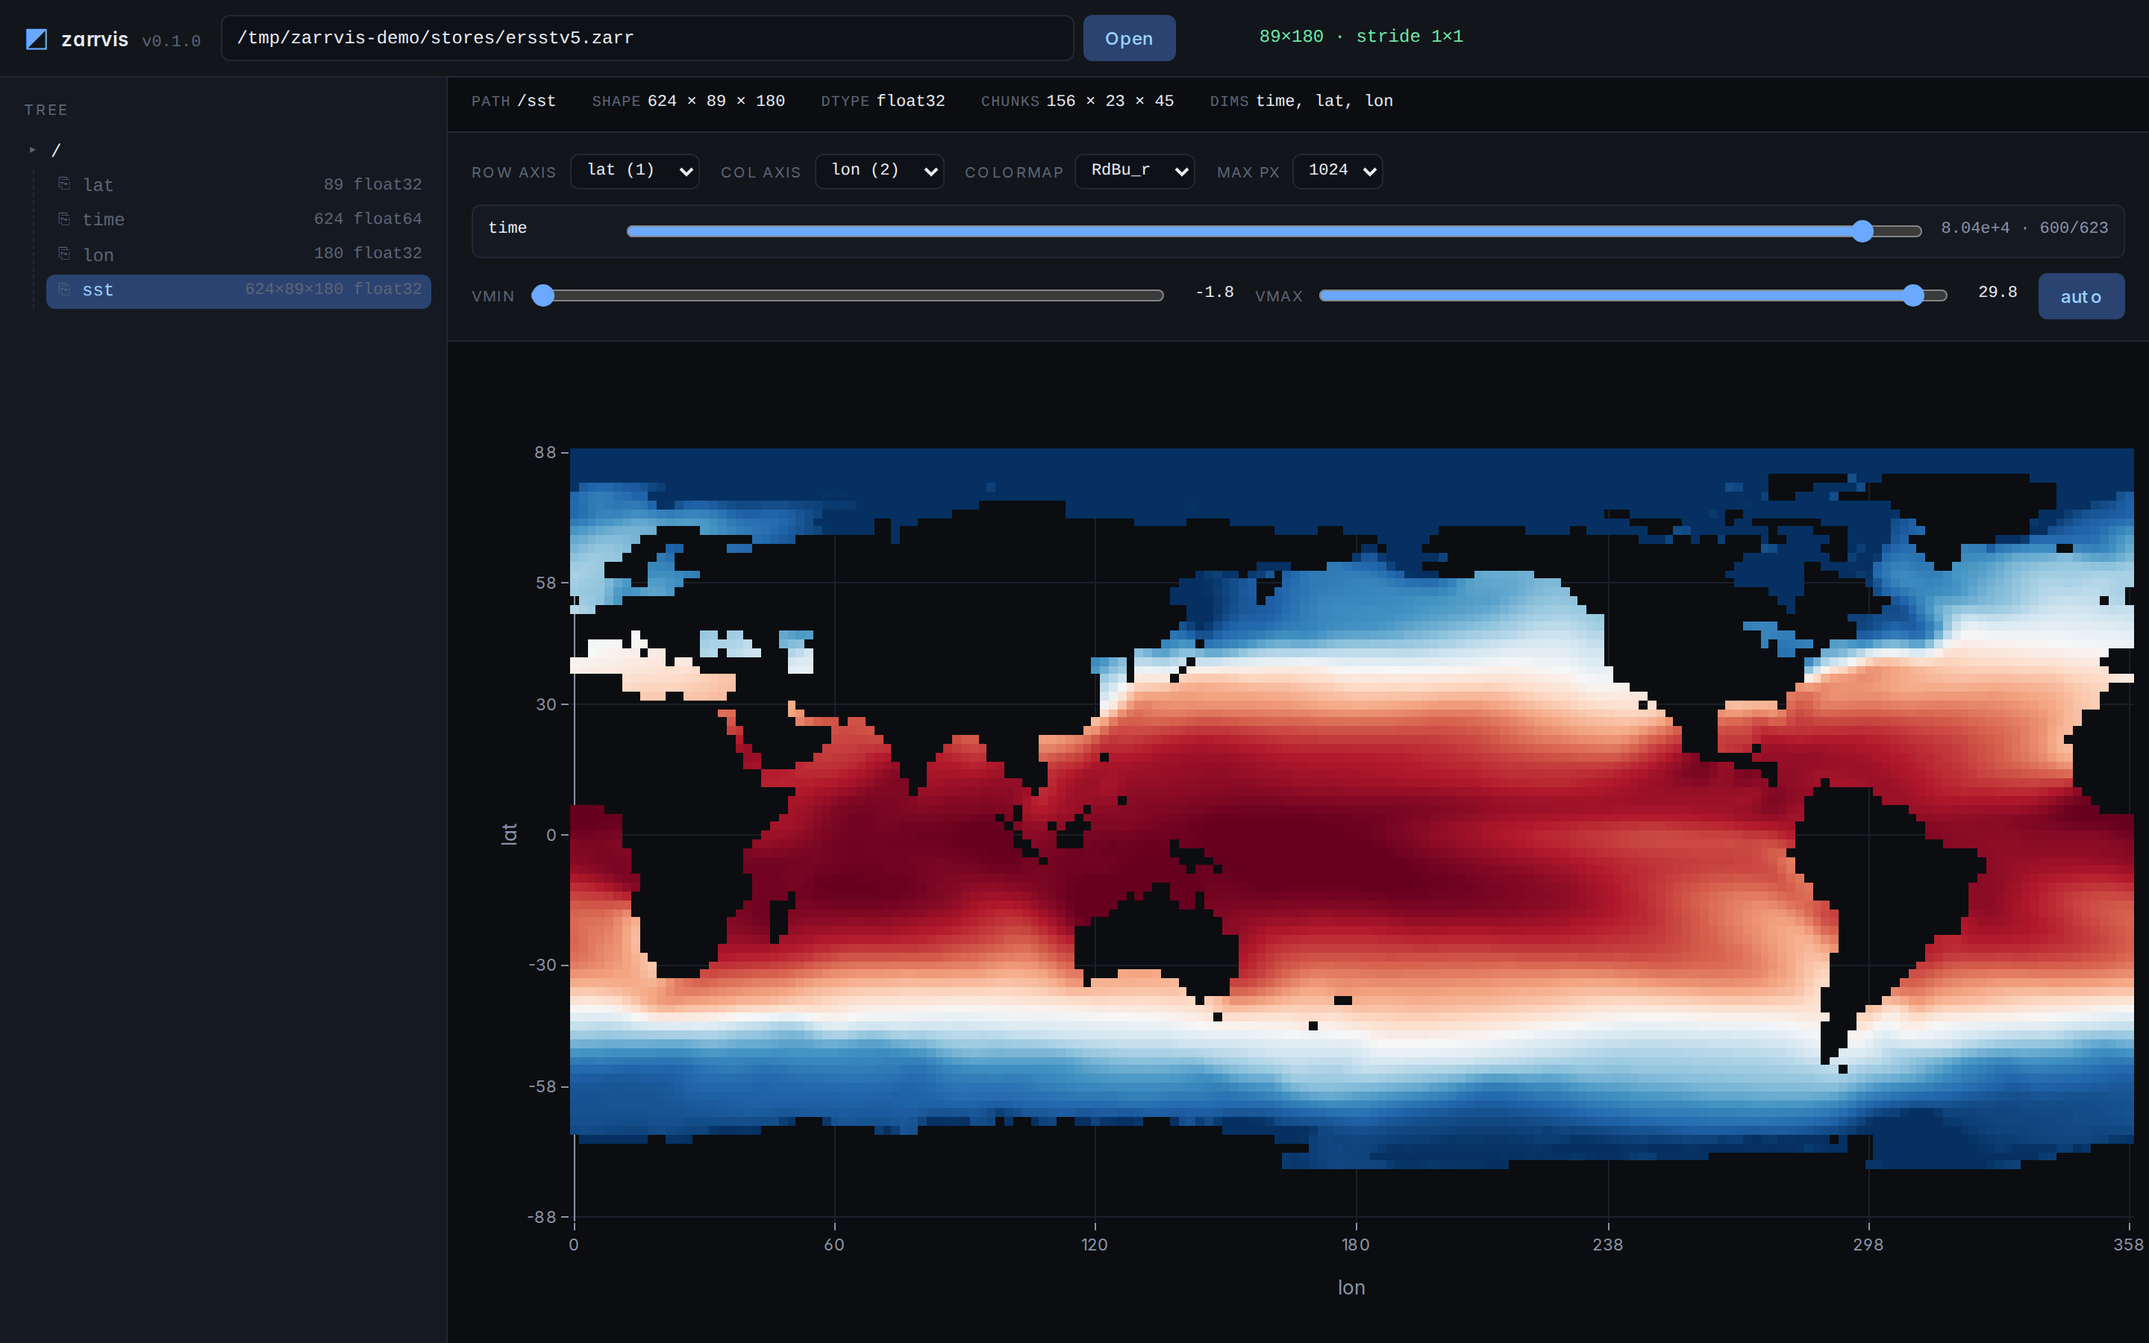
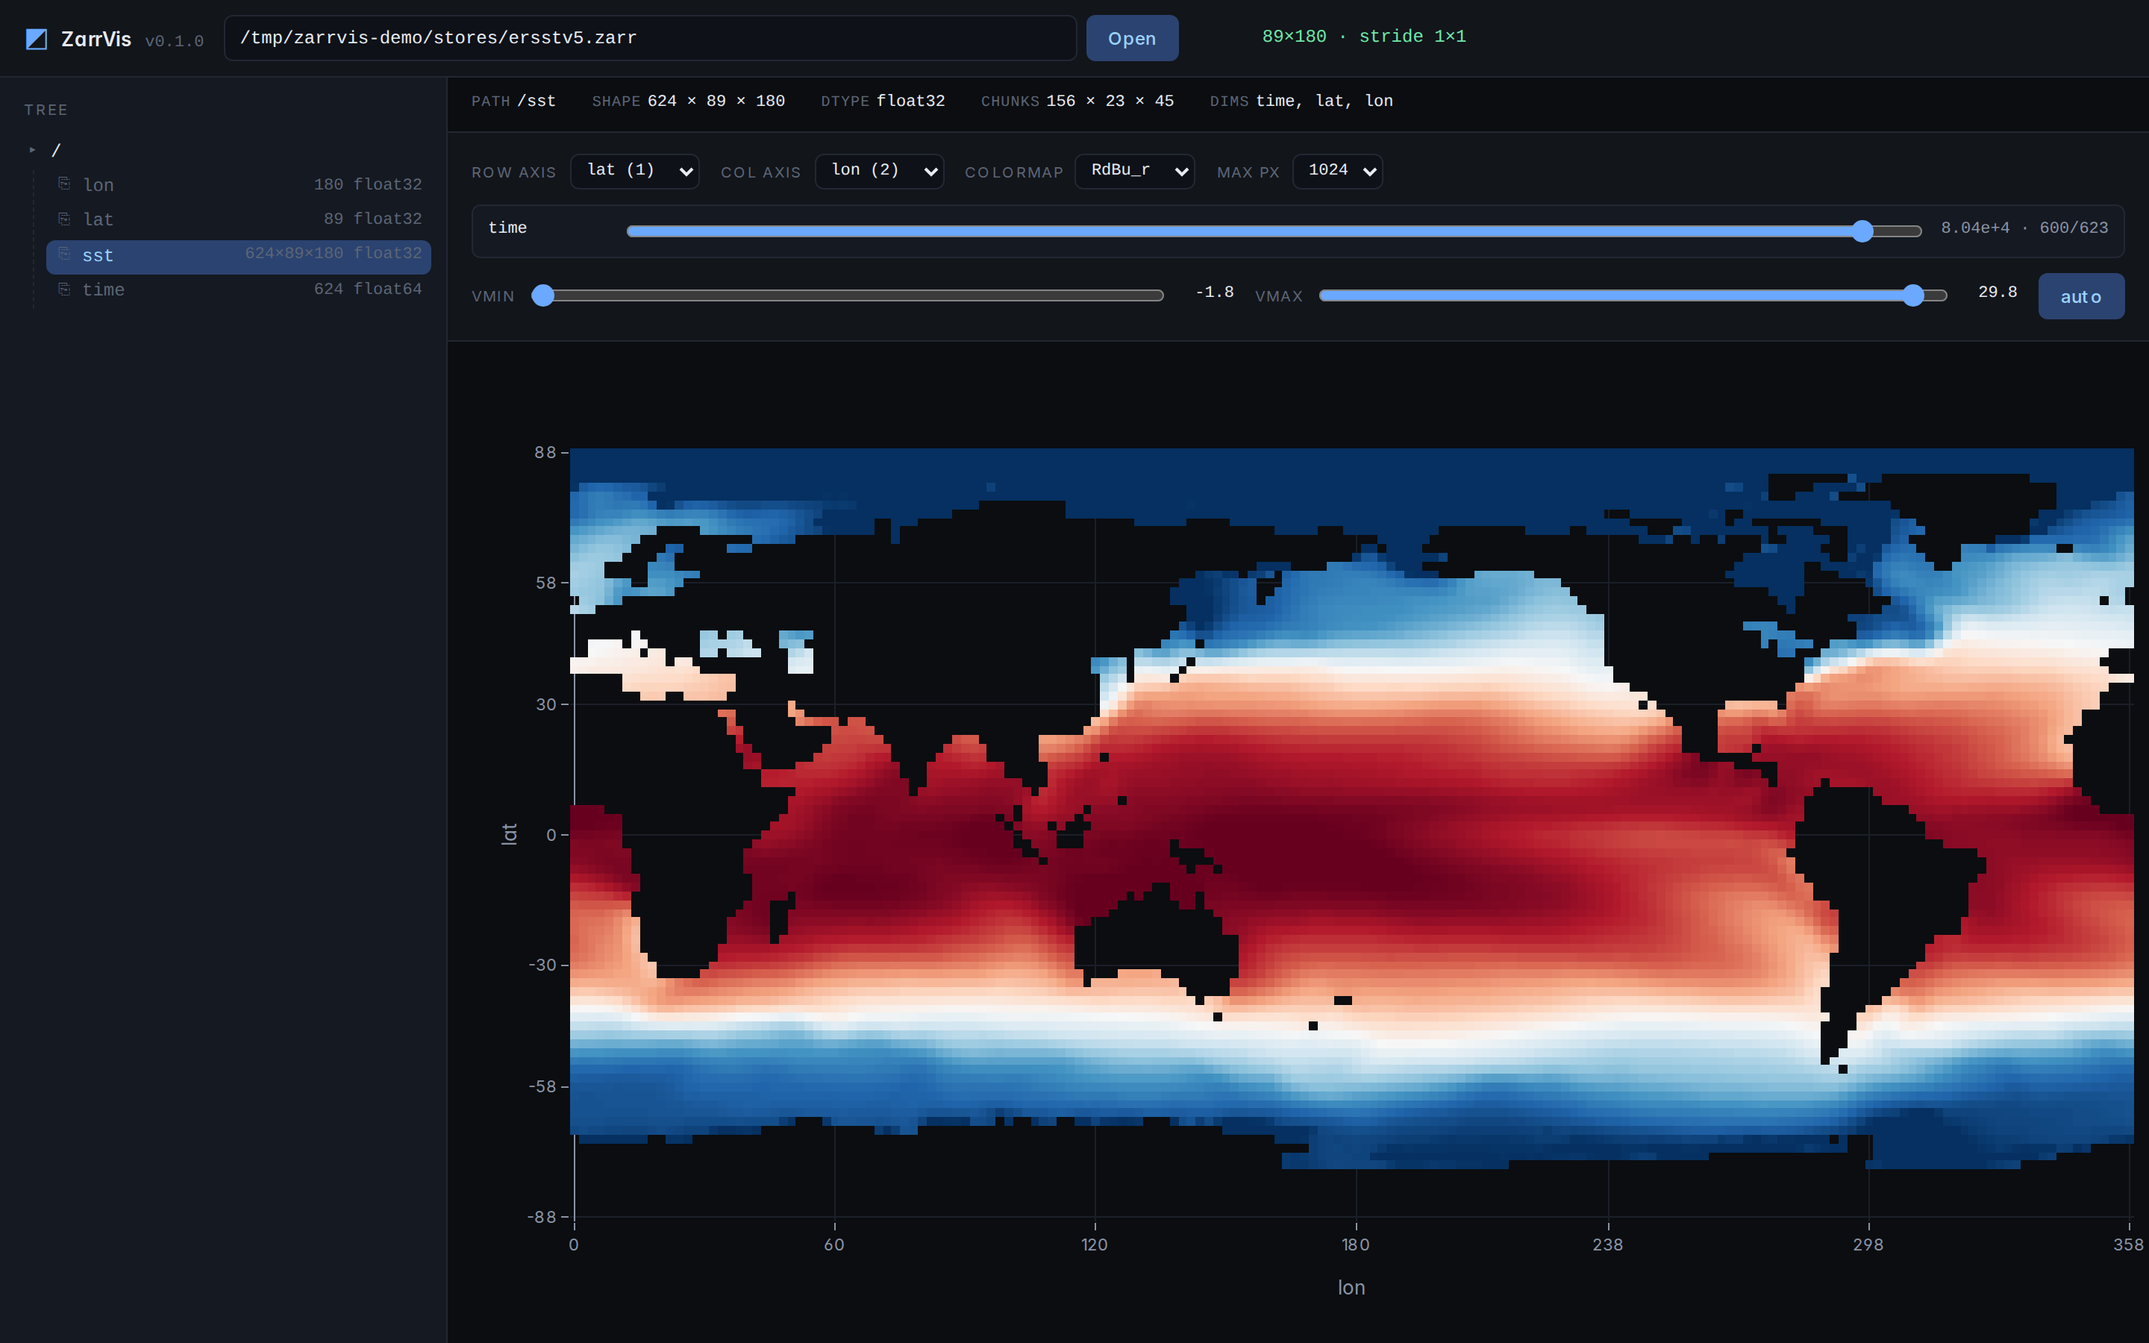
Rebrand display name to ZarrVis, slim README
- Display: HTML title, brand label, CLI banner, README/CONTRIBUTING headings
  and prose all read "ZarrVis". Code identifiers (PyPI dist name, import
  path, src/zarrvis/, CLI command, file paths) stay lowercase.
- Hero screenshot: ERA-Interim 500 hPa geopotential at 241x480 with the
  turbo colormap, replacing the pixelated 25x53 NCEP shot.
- Gallery rebuilt: RASM (inferno), ERSSTv5 (RdBu_r), NCEP air temperature
  (turbo).
- Removed the API and Security sections from README; trimmed the gallery
  caption block.

diff --git a/src/zarrvis/static/app.js b/src/zarrvis/static/app.js
@@ -252,7 +252,7 @@ function renderInfoStrip(info) {
         kv("path", info.path),
         kv("shape", info.shape.join(" × ")),
         kv("dtype", info.dtype),
-        kv("chunks", info.chunks ? info.chunks.join(" × ") : "—"),
+        kv("chunks", info.chunks ? info.chunks.join(" × ") : "-"),
         info.shards ? kv("shards", info.shards.join(" × ")) : null,
         info.dims ? kv("dims", info.dims.join(", ")) : null,
     ].filter(Boolean);
@@ -377,8 +377,8 @@ function renderControls(info) {
             recolor();
         },
     });
-    const vminLabel = el("span", { class: "value", id: "vmin-label", text: "—" });
-    const vmaxLabel = el("span", { class: "value", id: "vmax-label", text: "—" });
+    const vminLabel = el("span", { class: "value", id: "vmin-label", text: "-" });
+    const vmaxLabel = el("span", { class: "value", id: "vmax-label", text: "-" });
     const autoBtn = el("button", {
         text: "auto",
         onclick: () => {

diff --git a/src/zarrvis/static/index.html b/src/zarrvis/static/index.html
@@ -3,7 +3,7 @@
 <head>
 <meta charset="utf-8" />
 <meta name="viewport" content="width=device-width, initial-scale=1" />
-<title>zarrvis</title>
+<title>ZarrVis</title>
 <link rel="preconnect" href="https://rsms.me/" />
 <link rel="stylesheet" href="https://rsms.me/inter/inter.css" />
 <link rel="stylesheet" href="/static/app.css" />
@@ -13,7 +13,7 @@
 <header class="topbar">
     <div class="brand">
         <span class="logo" aria-hidden="true">◩</span>
-        <span class="name">zarrvis</span>
+        <span class="name">ZarrVis</span>
         <span class="version" id="version"></span>
     </div>
     <div class="path-input">

diff --git a/scripts/screenshot.py b/scripts/screenshot.py
@@ -5,9 +5,9 @@
 #     "httpx>=0.27",
 # ]
 # ///
-"""Capture screenshots of zarrvis against the example stores.
+"""Capture screenshots of ZarrVis against the example stores.
 
-Boots a zarrvis server, drives a headless Chromium through fixed view-state
+Boots a ZarrVis server, drives a headless Chromium through fixed view-state
 URLs, and writes PNGs to docs/screenshots/.
 
 Usage (from the repo root):
@@ -39,7 +39,7 @@ REPO = Path(__file__).resolve().parent.parent
 STORES = REPO / "examples" / "stores"
 OUT = REPO / "docs" / "screenshots"
 # Stores are copied here before the screenshot run so the path shown in the
-# zarrvis address bar is a neutral location, not the user's home directory.
+# ZarrVis address bar is a neutral location, not the user's home directory.
 STAGE = Path("/tmp/zarrvis-demo/stores")
 
 VIEWPORT = {"width": 1440, "height": 900}
@@ -59,27 +59,27 @@ class Shot:
 SHOTS: list[Shot] = [
     Shot(
         "hero",
-        "air_temperature.zarr",
-        indices=[0, None, None],
-        axes=[1, 2],
-        cmap="RdBu_r",
-    ),
-    Shot("rasm", "rasm.zarr", indices=[0, None, None], axes=[1, 2], cmap="viridis"),
-    Shot(
-        "eraint",
         "eraint_uvz.zarr",
         indices=[0, 1, None, None],
         axes=[2, 3],
-        cmap="RdBu_r",
+        cmap="turbo",
     ),
+    Shot("rasm", "rasm.zarr", indices=[20, None, None], axes=[1, 2], cmap="inferno"),
     Shot("ersst", "ersstv5.zarr", indices=[600, None, None], axes=[1, 2], cmap="RdBu_r"),
+    Shot(
+        "air_temperature",
+        "air_temperature.zarr",
+        indices=[0, None, None],
+        axes=[1, 2],
+        cmap="turbo",
+    ),
 ]
 
 
 def ensure_examples() -> None:
     if STORES.exists() and any(STORES.iterdir()):
         return
-    print("examples/stores/ missing — running build_examples.py", flush=True)
+    print("examples/stores/ missing, running build_examples.py", flush=True)
     subprocess.run([sys.executable, str(REPO / "examples" / "build_examples.py")], check=True)
 
 
@@ -124,7 +124,7 @@ def wait_for_health(base: str, token: str, timeout_s: float = 15.0) -> None:
         except Exception as exc:
             last_exc = exc
         time.sleep(0.1)
-    raise RuntimeError(f"zarrvis did not come up in {timeout_s}s: {last_exc}")
+    raise RuntimeError(f"ZarrVis did not come up in {timeout_s}s: {last_exc}")
 
 
 def resolve_array_path(base: str, token: str, store_path: Path) -> str:
@@ -174,11 +174,11 @@ def build_url(base: str, token: str, store_path: Path, array: str, shot: Shot) -
 
 
 def start_zarrvis(port: int) -> tuple[subprocess.Popen[str], str]:
-    """Start zarrvis pointed at the staged stores; return (proc, token).
+    """Start ZarrVis pointed at the staged stores; return (proc, token).
 
-    Invokes the project venv's zarrvis via `uv run` rather than `sys.executable`,
-    because this PEP 723 script runs in its own ephemeral environment that does
-    not have zarrvis installed.
+    Invokes the project venv's `zarrvis` CLI via `uv run` rather than
+    `sys.executable`, because this PEP 723 script runs in its own ephemeral
+    environment that does not have the package installed.
     """
     proc = subprocess.Popen(
         [
@@ -208,14 +208,14 @@ def start_zarrvis(port: int) -> tuple[subprocess.Popen[str], str]:
         line = proc.stdout.readline()
         if not line:
             if proc.poll() is not None:
-                raise RuntimeError("zarrvis exited before printing URL")
+                raise RuntimeError("ZarrVis exited before printing URL")
             continue
         if "url" in line and "token=" in line:
             token = line.split("token=")[-1].strip()
             break
     if not token:
         proc.terminate()
-        raise RuntimeError("did not see zarrvis URL in stdout")
+        raise RuntimeError("did not see ZarrVis URL in stdout")
     return proc, token
 
 
@@ -231,7 +231,7 @@ def main() -> int:
     proc, token = start_zarrvis(port)
     try:
         wait_for_health(base, token)
-        print(f"zarrvis up on {base}", flush=True)
+        print(f"ZarrVis up on {base}", flush=True)
 
         with sync_playwright() as p:
             browser = p.chromium.launch(headless=True)

diff --git a/examples/build_examples.py b/examples/build_examples.py
@@ -1,4 +1,4 @@
-"""Generate a handful of example zarr stores for exploring zarrvis.
+"""Generate a handful of example zarr stores for exploring ZarrVis.
 
 Usage (from the repo root):
 
@@ -32,7 +32,7 @@ def _out(base: Path, name: str) -> str:
 
 
 def rings(base: Path) -> None:
-    """3-D concentric rings — lets you scrub z and see the pattern evolve."""
+    """3-D concentric rings; scrub z to see the pattern evolve."""
     path = _out(base, "rings.zarr")
     nz, ny, nx = 64, 256, 256
     arr = zarr.create_array(
@@ -107,7 +107,7 @@ def microscopy(base: Path) -> None:
 
 
 def complex_magnitude(base: Path) -> None:
-    """Complex-valued array — zarrvis renders the magnitude."""
+    """Complex-valued array; ZarrVis renders the magnitude."""
     path = _out(base, "complex_wave.zarr")
     ny, nx = 256, 256
     y, x = np.mgrid[:ny, :nx]
@@ -116,7 +116,7 @@ def complex_magnitude(base: Path) -> None:
         store=path, shape=(ny, nx), chunks=(64, 64), dtype="complex64", zarr_format=3
     )
     arr[:] = wave.astype("complex64")
-    print(f"  wrote {path}  (complex64 — rendered as magnitude)")
+    print(f"  wrote {path}  (complex64, rendered as magnitude)")
 
 
 def _from_xr_tutorial(base: Path, name: str, dataset: str, summary: str) -> None:
@@ -184,7 +184,7 @@ def ersstv5(base: Path) -> None:
 
 
 def nan_mask(base: Path) -> None:
-    """2-D array with NaNs — should render as transparent pixels."""
+    """2-D array with NaNs; should render as transparent pixels."""
     path = _out(base, "with_nans.zarr")
     ny, nx = 128, 128
     y, x = np.mgrid[:ny, :nx]

diff --git a/src/zarrvis/cli.py b/src/zarrvis/cli.py
@@ -52,7 +52,7 @@ def _open_browser_soon(url: str, delay: float = 0.6) -> None:
 def _parse_args(argv: list[str] | None) -> argparse.Namespace:
     parser = argparse.ArgumentParser(
         prog="zarrvis",
-        description="Clean, sleek browser visualization of zarr files.",
+        description="Browser viewer for zarr files.",
     )
     parser.add_argument("path", nargs="?", help="Path to a zarr store (local path or fsspec URL).")
     parser.add_argument("--host", default="127.0.0.1", help="Bind host (default: 127.0.0.1).")
@@ -72,7 +72,7 @@ def _parse_args(argv: list[str] | None) -> argparse.Namespace:
     )
     parser.add_argument("--no-browser", action="store_true", help="Do not auto-open a browser.")
     parser.add_argument("--verbose", "-v", action="store_true", help="Enable DEBUG logging.")
-    parser.add_argument("--version", action="version", version=f"zarrvis {__version__}")
+    parser.add_argument("--version", action="version", version=f"ZarrVis {__version__}")
     return parser.parse_args(argv)
 
 
@@ -129,7 +129,7 @@ def main(argv: list[str] | None = None) -> int:
     url = _build_url(args.host, port, token)
     banner = [
         "",
-        "  zarrvis " + __version__,
+        "  ZarrVis " + __version__,
         "  ──────────────────────────────────────────────",
         f"  root     : {root}",
         f"  remote   : {'enabled' if args.allow_remote else 'disabled'}",

diff --git a/src/zarrvis/slicing.py b/src/zarrvis/slicing.py
@@ -7,8 +7,8 @@ Wire format for a 2-D slice returned by /api/slice:
 The JSON header is UTF-8 and carries `rows`, `cols`, `stride`, axes, indices,
 and min/max of the payload (NaN-safe). The payload is C-contiguous float32.
 
-``header_len`` is always a multiple of 4 — the JSON is right-padded with
-trailing spaces if needed — so that the float32 payload begins at a 4-byte
+``header_len`` is always a multiple of 4 (the JSON is right-padded with
+trailing spaces if needed) so that the float32 payload begins at a 4-byte
 aligned offset. That lets the browser construct ``new Float32Array(buffer,
 offset, length)`` without copying.
 """
@@ -146,8 +146,8 @@ def _to_float32_2d(sliced: np.ndarray, axes: tuple[int, int]) -> np.ndarray:
     elif arr.dtype.kind == "b":
         arr = arr.astype("float32")
     arr = arr.astype("float32", copy=False)
-    # If the row_axis index > col_axis index, the squeezed order is (col, row)
-    # — transpose so the output is always (row_axis, col_axis).
+    # If the row_axis index > col_axis index, the squeezed order is (col, row),
+    # so transpose to make the output (row_axis, col_axis).
     if axes[0] > axes[1]:
         arr = arr.T
     return np.ascontiguousarray(arr)

diff --git a/tests/test_xarray.py b/tests/test_xarray.py
@@ -47,8 +47,8 @@ def test_find_coord_array_time(xarray_zarr_v3: Path) -> None:
     time = find_coord_array(root, "/t2m", "time")
     assert time is not None
     values, dtype = coord_to_json_values(time)
-    # xarray writes time as int with CF units — coord values here are raw ints,
-    # not decoded datetimes. Ensure the module doesn't crash on them.
+    # xarray writes time as int with CF units, so coord values here are raw
+    # ints, not decoded datetimes. Ensure the module doesn't crash on them.
     assert len(values) == 3
     assert dtype in {"int64", "datetime64"}
 

diff --git a/src/zarrvis/store.py b/src/zarrvis/store.py
@@ -247,7 +247,7 @@ def find_coord_array(root: Node, array_path: str, dim_name: str) -> zarr.Array |
 
 
 def coord_to_json_values(arr: zarr.Array) -> tuple[list[Any], str]:
-    """Return (values, rendered_dtype) — strings for datetime, numbers otherwise."""
+    """Return (values, rendered_dtype): strings for datetime, numbers otherwise."""
     data = arr[:]
     kind = arr.dtype.kind
     if kind == "M":

diff --git a/README.md b/README.md
@@ -1,4 +1,4 @@
-# zarrvis
+# ZarrVis
 
 [![CI](https://github.com/ofgn/zarrvis/actions/workflows/ci.yml/badge.svg)](https://github.com/ofgn/zarrvis/actions/workflows/ci.yml)
 [![Python 3.12+](https://img.shields.io/badge/python-3.12%2B-blue.svg)](https://www.python.org/downloads/)
@@ -9,12 +9,12 @@ or labelled [xarray](https://xarray.dev/) /
 [OME-Zarr](https://ngff.openmicroscopy.org/) stores. Local paths or remote
 `s3://` / `gs://` / `https://` URLs.
 
-![NCEP reanalysis 2-m air temperature over North America](docs/screenshots/hero.png)
+![ERA-Interim global geopotential height with the turbo colormap](docs/screenshots/hero.png)
 
 ## Status
 
 Experimental (v0.1.0). Probably has rough edges. If you hit one, please
-[open an issue](https://github.com/ofgn/zarrvis/issues) — a `zarr.tree()`
+[open an issue](https://github.com/ofgn/zarrvis/issues). A `zarr.tree()`
 dump and the `--verbose` traceback are usually enough.
 
 ## Install
@@ -47,10 +47,10 @@ zarrvis [PATH] [--host 127.0.0.1] [--port 8765]
 
 ## Gallery
 
-| RASM Arctic Tair | ERA-Interim 4-D | NOAA ERSST v5 |
+| RASM Arctic Tair | NOAA ERSST v5 | NCEP air temperature |
 |---|---|---|
-| ![](docs/screenshots/rasm.png) | ![](docs/screenshots/eraint.png) | ![](docs/screenshots/ersst.png) |
-| Regional Arctic surface air temperature, ocean NaN | Global geopotential, sliders over `month` and `level` | Global sea-surface temperature, land NaN |
+| ![](docs/screenshots/rasm.png) | ![](docs/screenshots/ersst.png) | ![](docs/screenshots/air_temperature.png) |
+| Regional Arctic surface air temperature, ocean NaN | Global sea-surface temperature, land NaN | NCEP/NCAR reanalysis 2-m air temp over North America |
 
 All four shots are real datasets pulled from the xarray tutorial mirror by
 [examples/build_examples.py](examples/build_examples.py). Reproduce with
@@ -66,41 +66,6 @@ All four shots are real datasets pulled from the xarray tutorial mirror by
 | `datetime64` | works | rendered as seconds-since-epoch |
 | `complex64/128` | partial | rendered as `\|z\|` |
 | `object` / strings | no | tree shows why |
-
-## API
-
-All routes live under `/api/*` and require the session token.
-
-| Route | Returns |
-|---|---|
-| `GET /api/health` | status, version, allowlist |
-| `GET /api/tree?path=…` | groups/arrays with shape, dtype, chunks, dims, attrs |
-| `GET /api/slice?path=…&array=…&indices=…&axes=…&max_px=…` | binary frame: `[u32 header_len][json][float32]` |
-| `GET /api/stats?…` | percentiles (2/98), min/max, 64-bin histogram |
-| `GET /api/coords?path=…&array=…&axis=…` | coord values for an axis |
-
-```python
-import httpx, struct, json, numpy as np
-
-r = httpx.get(
-    "http://127.0.0.1:8765/api/slice",
-    params={"path": "/data/store.zarr", "indices": "[3, null, null]", "token": TOKEN},
-)
-buf = r.content
-(hlen,) = struct.unpack("<I", buf[:4])
-header = json.loads(buf[4:4 + hlen])
-data = np.frombuffer(buf[4 + hlen:], dtype="float32").reshape(header["rows"], header["cols"])
-```
-
-## Security
-
-Built to run on your laptop, not on the open internet.
-
-- Binds `127.0.0.1`.
-- Per-session token in every `/api/*` request.
-- `Host` header restricted to `localhost` / `127.0.0.1` / `::1`.
-- `path` is resolved and checked against `--root`.
-- `s3://` / `gs://` / `https://` need `--allow-remote`.
 
 ## Development
 

diff --git a/CONTRIBUTING.md b/CONTRIBUTING.md
@@ -1,6 +1,6 @@
 # Contributing
 
-zarrvis is small and tries to stay that way. Bug fixes and patches that cut
+ZarrVis is small and tries to stay that way. Bug fixes and patches that cut
 complexity are very welcome.
 
 ## Setup
@@ -16,7 +16,7 @@ uv run pytest -q
 - **uv** for envs and deps; `uv.lock` is committed.
 - **ruff** for lint and format.
 - **pytest** with `fastapi.testclient.TestClient` for the API tests.
-- **ty** (Astral, alpha) — CI runs it as advisory.
+- **ty** (Astral, alpha). CI runs it as advisory.
 
 ## Layout
 

diff --git a/examples/README.md b/examples/README.md
@@ -41,7 +41,7 @@ The path input at the top of the UI accepts any path under the CLI's
   steps, watch the ENSO Pacific tongue come and go.
 - `rasm.zarr` (`/Tair`): the ocean NaN mask renders the coastline.
 - `eraint_uvz.zarr`: 4-D, so you get sliders for both `month` and `level`.
-- `rings.zarr`: drag the z slider fast — in-flight requests cancel, no
+- `rings.zarr`: drag the z slider fast; in-flight requests cancel, no
   stale frames.
 - `microscopy.zarr`: switch the row-axis picker to `z` for an orthogonal
   section.

diff --git a/THIRD_PARTY.md b/THIRD_PARTY.md
@@ -18,5 +18,5 @@ matplotlib. See <https://ai.googleblog.com/2019/08/turbo-improved-rainbow-colorm
 
 ## Frontend libraries (loaded at runtime from CDN)
 
-- [Plotly.js](https://plotly.com/javascript/) — MIT. Loaded via
+- [Plotly.js](https://plotly.com/javascript/), MIT. Loaded via
   `cdn.plot.ly` in [src/zarrvis/static/index.html](src/zarrvis/static/index.html).
